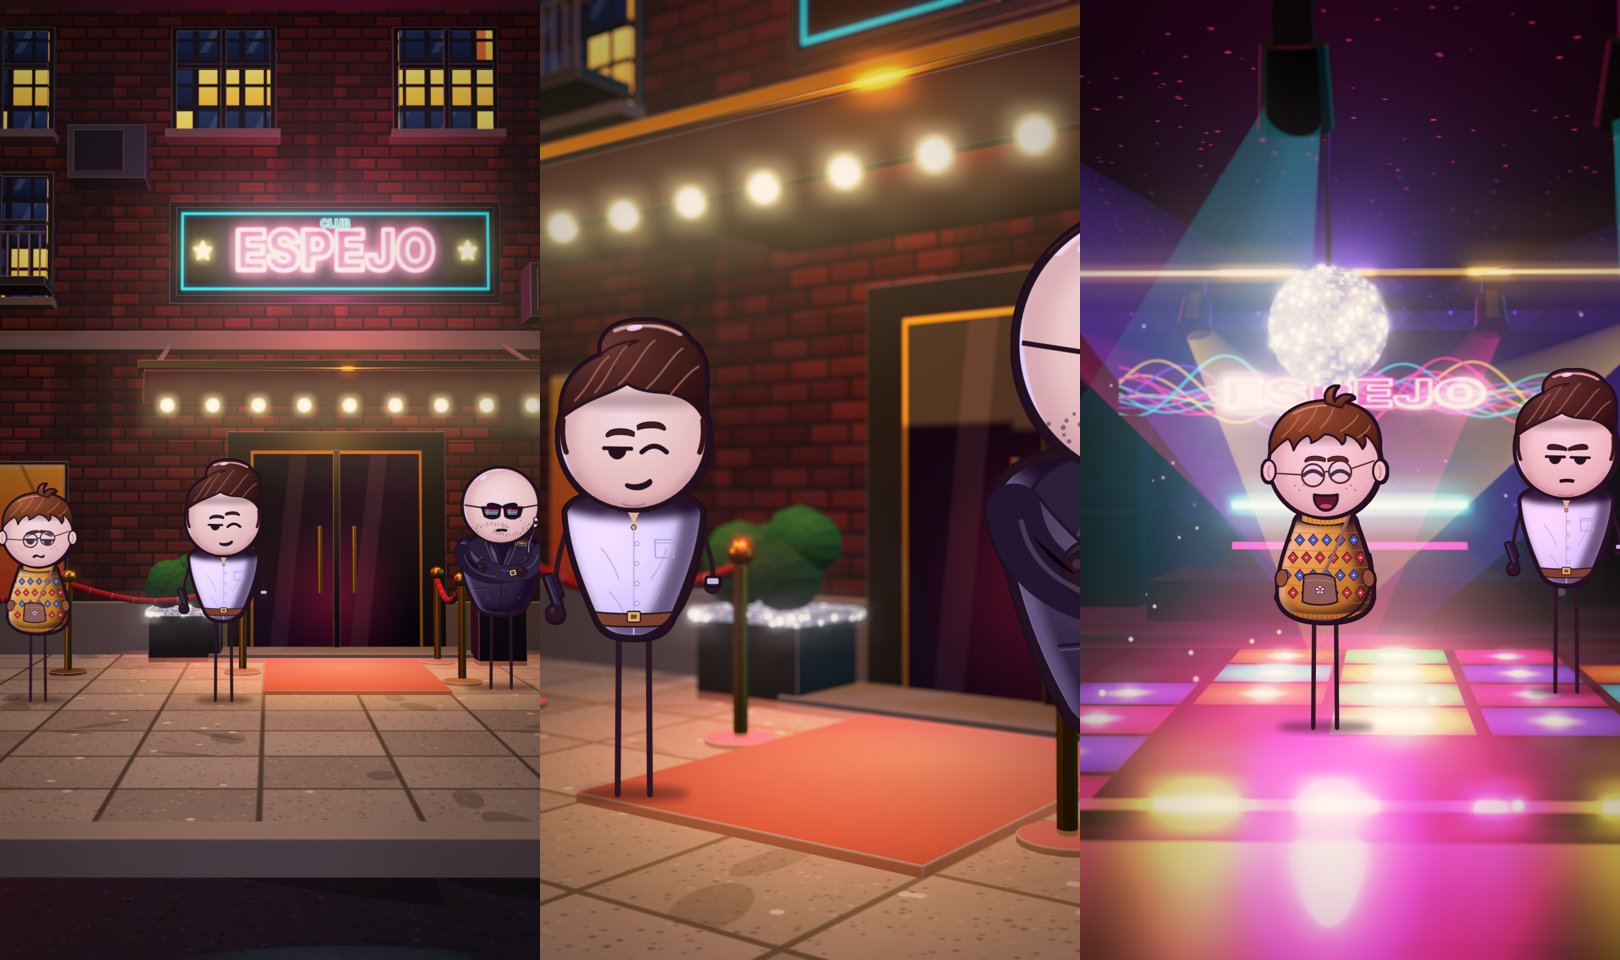
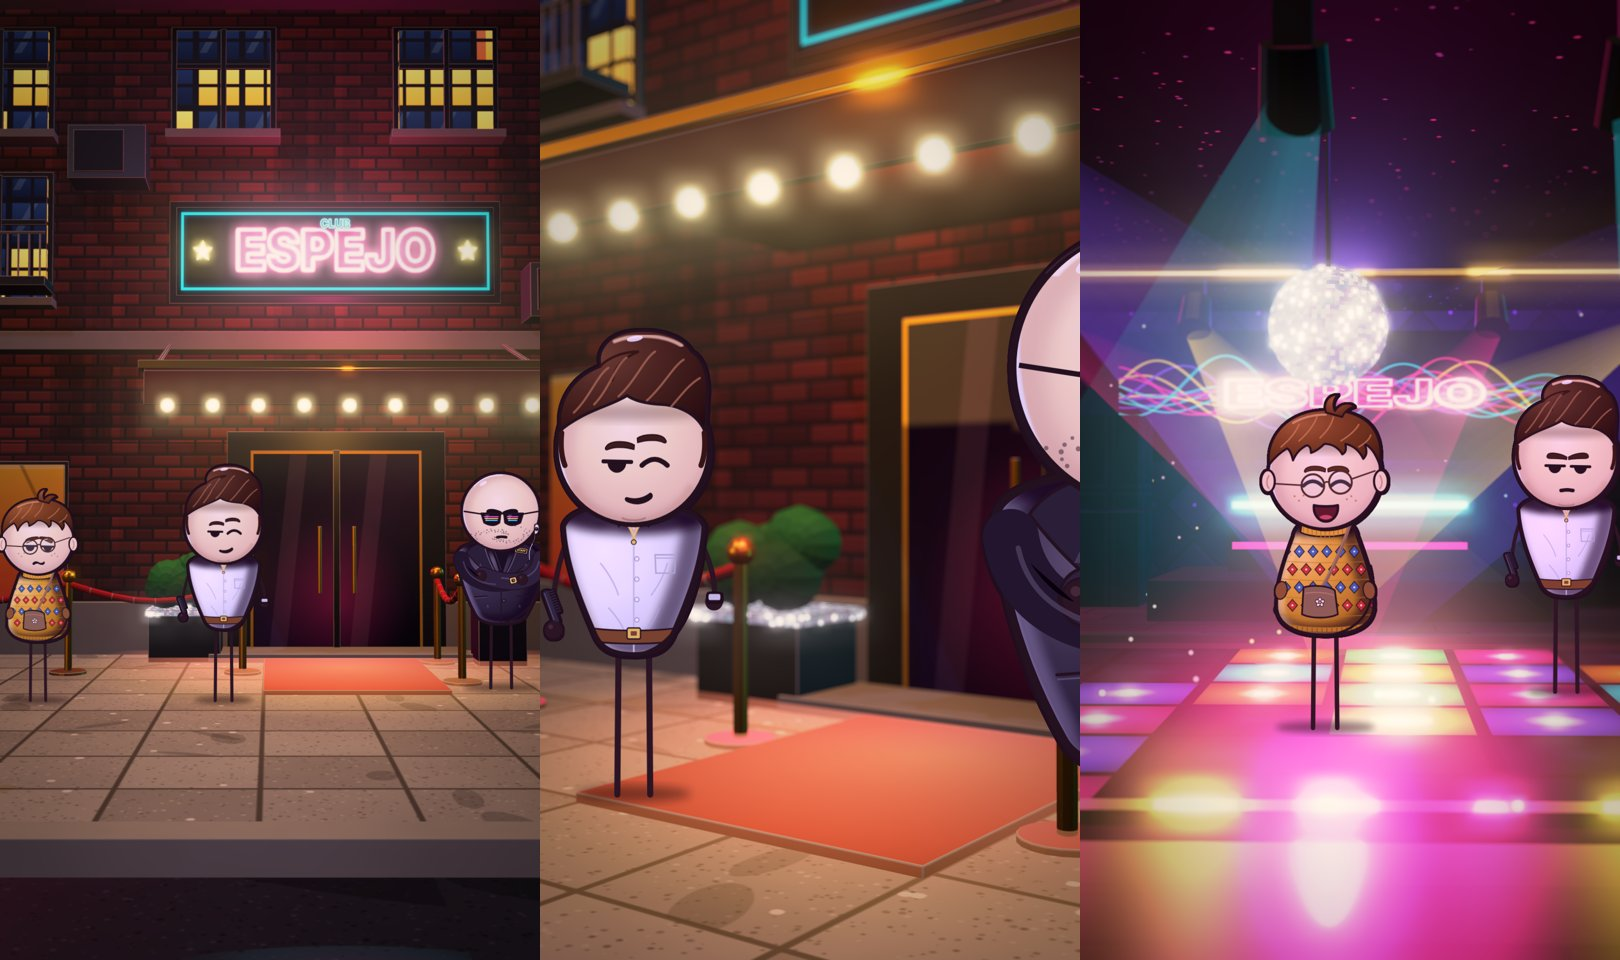
Personajes .99: piernas un 14 % más cortas (legX 380)
Claude-Session: https://claude.ai/code/session_01DBoMy3XF4cPWESh3BDdRHR

diff --git a/archivoraro_archivo/proyectos/78_discoteca/test78.js b/archivoraro_archivo/proyectos/78_discoteca/test78.js
@@ -5,7 +5,7 @@ window.shot = (name, o) => { const W = W2; W.site(o.site); W.setTime(o.t || 3); 
   const L = (o.chars || []).map(([n, x, z, pose0, h, y0]) => { const pose = Object.assign({}, pose0 || {}); ['holdRn', 'holdLn'].forEach(k => { if (pose[k]) { pose[k.slice(0, 5)] = new Function('return (' + pose[k] + ')')(); delete pose[k]; } }); const F = V3(x, y0 ?? 0, z); let sv = who(n, pose || {}, F, h || ADULT, { gy: F.y }); return [W.camera.position.distanceTo(F), sv]; }).sort((a, b) => b[0] - a[0]).map(a => a[1]).join('');
   // personajes estilo .99 (pj99): [función, x, z, cara, altura, {flip, sombra}]
   const TINT = { calle: '0.93 0 0 0 0.03  0 0.88 0 0 0.0  0 0 1.0 0 0.05  0 0 0 1 0', pista: '0.95 0 0 0 0.05  0 0.85 0 0 0  0 0 1.0 0 0.06  0 0 0 1 0', aula: '1 0 0 0 0  0 0.98 0 0 0  0 0 0.94 0 0  0 0 0 1 0' };
-  const PJ = (o.pj || []).map(([fn, x, z, face, h, op]) => { op = op || {}; const F = V3(x, 0, z), a = W.proj(F), b = W.proj(V3(x, h || 1.8, z)); if (!a.ok) return [0, '']; const s = (a.y - b.y) / (1700 + (window.PJ_LEG ?? 480));
+  const PJ = (o.pj || []).map(([fn, x, z, face, h, op]) => { op = op || {}; const F = V3(x, 0, z), a = W.proj(F), b = W.proj(V3(x, h || 1.8, z)); if (!a.ok) return [0, '']; const s = (a.y - b.y) / (1700 + (window.PJ_LEG ?? 380));
       const svg = window[fn](Object.assign({ face }, op.o || {})); const fl = op.flip ? `translate(${(1190 * s).toFixed(1)},0) scale(-1,1)` : '';
       return [W.camera.position.distanceTo(F), `<g transform="translate(${(a.x - 595 * s).toFixed(1)},${(a.y - 2100 * s).toFixed(1)}) scale(${s.toFixed(4)}) ${fl}" filter="url(#tintF)">${svg}</g>`]; })
     .sort((a, b) => b[0] - a[0]).map(a => a[1]).join('');

diff --git a/.claude/skills/archivoraro/engine_3d/pj99/pjt.js b/.claude/skills/archivoraro/engine_3d/pj99/pjt.js
@@ -26,7 +26,7 @@ function pjT(o) {
   const BP = o.bodyPath || TD_BODY;
   if (o.back) s += o.back(id);
   // piernas un 30 % más largas (pedido del usuario 24-11-2026): el cuerpo y la cabeza suben LEG px y los pies se quedan en el suelo (y = 2100)
-  const LEG = o.legX ?? (window.PJ_LEG ?? 480), upLeg = d => d.replace(/(-?\d+(?:\.\d+)?),(-?\d+(?:\.\d+)?)/g, (m, x, y) => +y >= 2090 ? m : `${x},${+y - LEG}`);
+  const LEG = o.legX ?? (window.PJ_LEG ?? 380), upLeg = d => d.replace(/(-?\d+(?:\.\d+)?),(-?\d+(?:\.\d+)?)/g, (m, x, y) => +y >= 2090 ? m : `${x},${+y - LEG}`);
   const legsSvg = o.legs === null ? '' : `<path d="${upLeg(o.legs || 'M478,1880 L470,2100 M712,1880 L722,2100')}" stroke="#261717" stroke-width="30" stroke-linecap="round"/>`;
   if (o.under) s += o.under(id);
   const armL = o.armL || 'M305,1260 C250,1400 215,1600 205,1760', handL = o.handL || [205, 1770];

diff --git a/archivoraro_archivo/proyectos/78_discoteca/pjt.js b/archivoraro_archivo/proyectos/78_discoteca/pjt.js
@@ -26,7 +26,7 @@ function pjT(o) {
   const BP = o.bodyPath || TD_BODY;
   if (o.back) s += o.back(id);
   // piernas un 30 % más largas (pedido del usuario 24-11-2026): el cuerpo y la cabeza suben LEG px y los pies se quedan en el suelo (y = 2100)
-  const LEG = o.legX ?? (window.PJ_LEG ?? 480), upLeg = d => d.replace(/(-?\d+(?:\.\d+)?),(-?\d+(?:\.\d+)?)/g, (m, x, y) => +y >= 2090 ? m : `${x},${+y - LEG}`);
+  const LEG = o.legX ?? (window.PJ_LEG ?? 380), upLeg = d => d.replace(/(-?\d+(?:\.\d+)?),(-?\d+(?:\.\d+)?)/g, (m, x, y) => +y >= 2090 ? m : `${x},${+y - LEG}`);
   const legsSvg = o.legs === null ? '' : `<path d="${upLeg(o.legs || 'M478,1880 L470,2100 M712,1880 L722,2100')}" stroke="#261717" stroke-width="30" stroke-linecap="round"/>`;
   if (o.under) s += o.under(id);
   const armL = o.armL || 'M305,1260 C250,1400 215,1600 205,1760', handL = o.handL || [205, 1770];

diff --git a/.claude/skills/archivoraro/references/estilo3d.md b/.claude/skills/archivoraro/references/estilo3d.md
@@ -558,7 +558,7 @@ Personajes 2D con el acabado aprobado del tendero (`tendero2d.js`): cabeza esfer
 - Siempre bocetos primero (cuerpo entero + 5 expresiones) junto al tendero para comparar el acabado, y esperar el «sí».
 - Nunca copiar personajes de vídeos de referencia: solo el estilo.
 - **Contorno (v2, 24-11-2026)**: `pjOutline()` añade un contorno exterior de la silueta con filtro (dilatar + desplazar 3,5 px): más grueso abajo a la derecha y más fino arriba a la izquierda, borde algo suave. Las patas y los brazos quedan FUERA del filtro (siguen finos). Línea de la cabeza 20 px + dos arcos de sombra que la engordan abajo a la derecha + filo claro arriba a la izquierda. Brillo suave arriba a la izquierda del cuerpo. Catálogo: `catalogo_modelos_v2.jpg`.
-- **Piernas largas** (pedido del usuario 24-11-2026: con +75 px «siguen igual»): `pjT` sube cuerpo y cabeza `legX` = **480 px** (window.PJ_LEG) y deja los pies en el suelo (y = 2100) → piernas ≈ 35 % de la altura, como la ref .99. En 3D la altura total (cabeza a pies) = h metros con escala `(a.y − b.y) / (1700 + PJ_LEG)`. Escala del decorado REAL (puerta 2,25 m): personajes 1,8 m, portero 2 m.
+- **Piernas largas** (pedido del usuario 24-11-2026: con +75 px «siguen igual»): `pjT` sube cuerpo y cabeza `legX` = **380 px** (window.PJ_LEG; con 480 el usuario pidió un 14 % menos) y deja los pies en el suelo (y = 2100) → piernas ≈ 30 % de la altura. En 3D la altura total (cabeza a pies) = h metros con escala `(a.y − b.y) / (1700 + PJ_LEG)`. Escala del decorado REAL (puerta 2,25 m): personajes 1,8 m, portero 2 m.
 - **Sin coloretes** (pedido del usuario 24-11-2026): no poner mofletes rosados a ningún personaje (`cheeks` desactivado en `pjT`).
 - **Objetos en la mano** (pedido 24-11-2026): el objeto pasa POR DENTRO del puño (mango visible por encima y por debajo de la mano bola, la mano se dibuja encima), con volumen (degradado, brillo, sombra), contorno y detalles (anillas, nudos, textura). Ejemplos: mazo del juez y saco de dinero del millonario en `models.js`. Nada cortado por el borde del encuadre.
 - **EXIGENCIA DEL USUARIO (24-11-2026): cada modelo nuevo se entrega YA BIEN HECHO a la primera, nunca básico.** Antes de enseñarlo, revisa a 2× cada zona y corrige tú: (1) nivel de detalle como el rey/chef v3 — 6–10 detalles con volumen (degradados de metal/madera/oro con `metalDefs()`, brillos, sombras, remaches, costuras, texturas, pliegues); (2) objetos agarrados por dentro del puño y dentro del encuadre; (3) nada flotando ni pegado en sitios raros (animales posados sobre algo que se vea: el hombro queda tapado por la cabeza → sobre el ala del sombrero); (4) nada que tape mal la cara ni rasgos que asomen (el parche cubre el ojo en TODAS las expresiones); (5) manchas/hollín como manchas suaves, nunca trazos que parezcan cejas; (6) sombra de contacto en el suelo; (7) comprobar las 5 expresiones.
